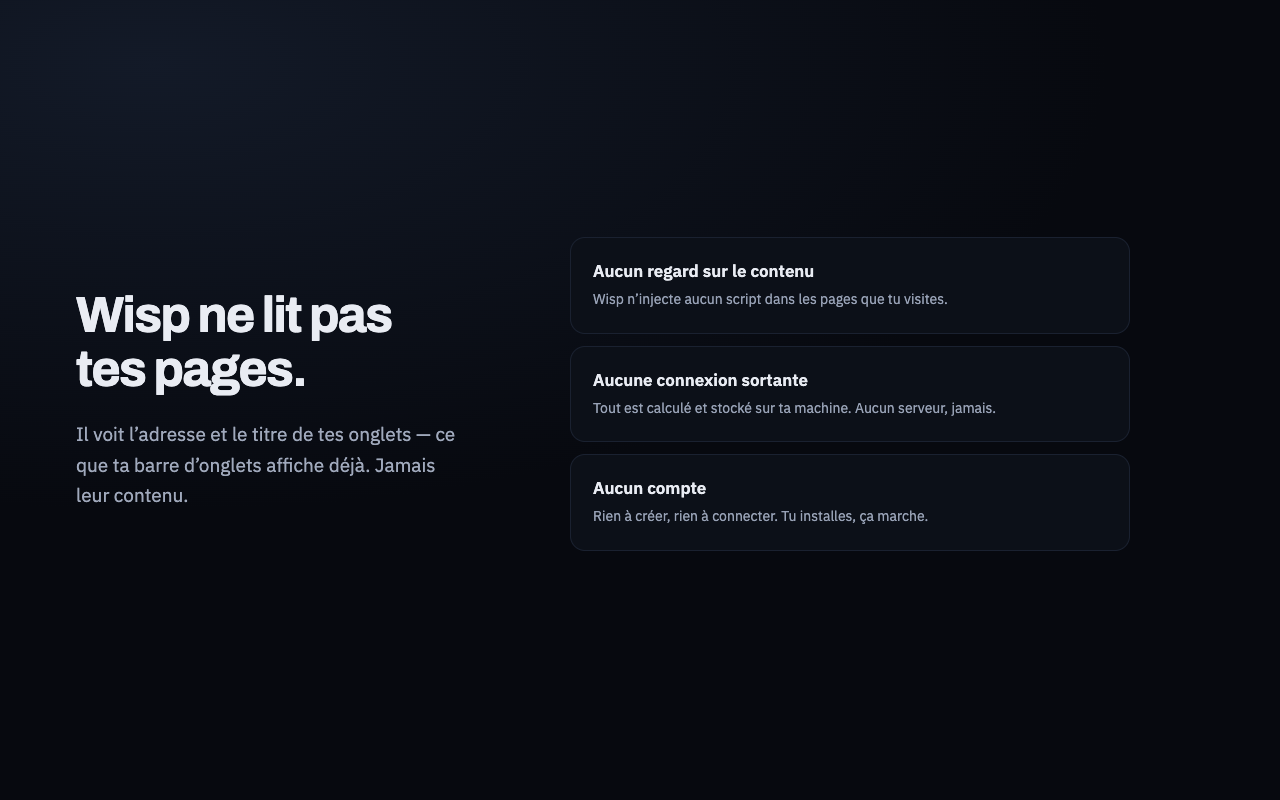
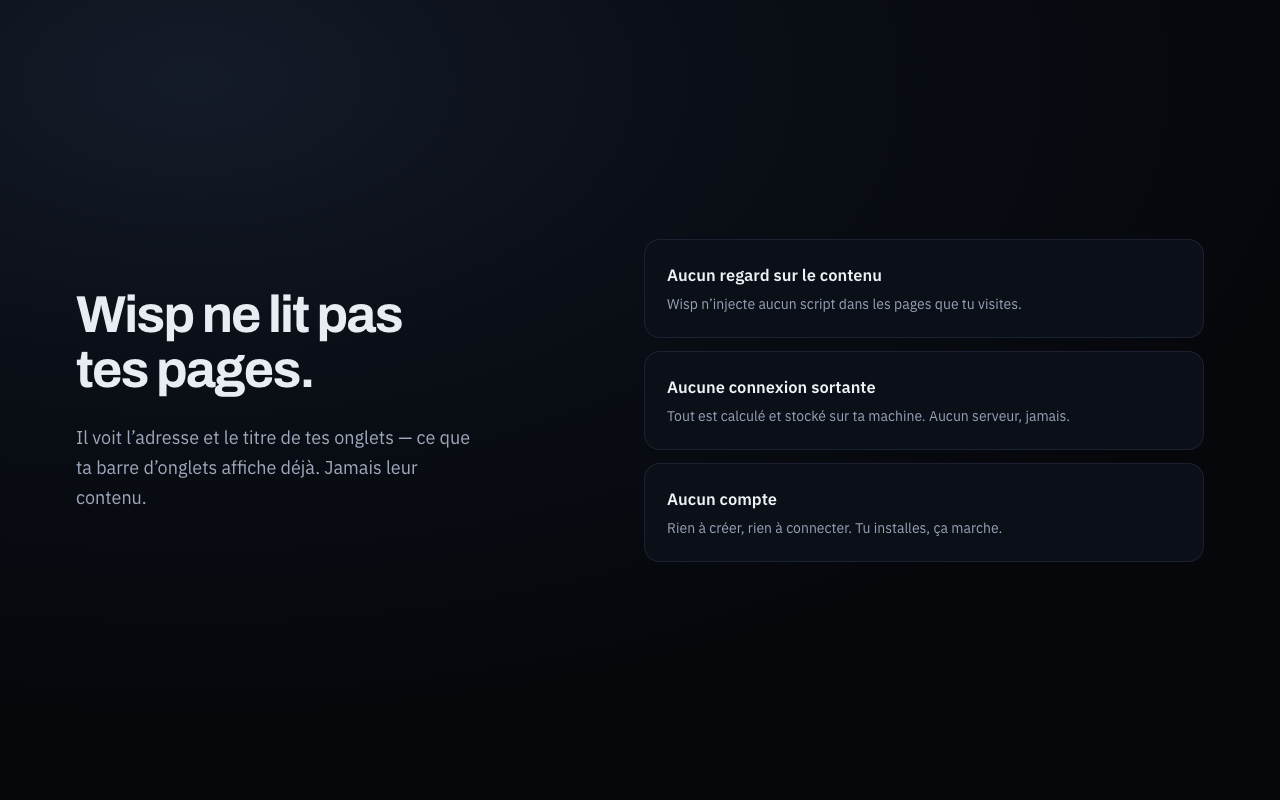
Visuels du Store en anglais, et français remis à jour
Les captures françaises montraient encore l'ancien bouton « Ranger les
onglets ouverts » et une suggestion « Achats » que Wisp ne fait plus. Les
deux jeux (fr dans store/, en dans store/en/) sortent désormais d'un même
modèle, store/visuels/modele.html, qui reçoit le CSS réel du popup (isolé
dans un Shadow DOM) et les messages réels de _locales : le texte du popup
n'est jamais recopié, les captures ne peuvent plus contredire le produit.
store/visuels/generer.cjs les photographie et échoue si une clé manque.

diff --git a/store/visuels/modele.html b/store/visuels/modele.html
@@ -1,0 +1,246 @@
+<!doctype html>
+<!--
+  Modèle des visuels du Chrome Web Store (captures 1280×800, tuile, bannière).
+  Ne s'ouvre pas tel quel : store/visuels/generer.cjs y injecte le CSS réel du
+  popup et les messages réels de _locales, puis photographie chaque visuel.
+  Les textes du popup ne sont donc jamais recopiés : ils viennent de
+  l'extension, et les captures ne peuvent pas diverger du produit.
+  Seuls les titres marketing (à gauche) vivent ici, dans ACCROCHES.
+-->
+<html>
+<head>
+<meta charset="utf-8">
+<link rel="stylesheet" href="https://fonts.googleapis.com/css2?family=Archivo:wght@700&family=IBM+Plex+Sans:wght@400;500;600&display=swap">
+<style>
+  html, body { margin: 0; }
+  body {
+    background: radial-gradient(ellipse 90% 80% at 15% 10%, #141b29 0%, #0a0e16 45%, #05070b 100%);
+    color: #e9ecf3; font-family: 'IBM Plex Sans', system-ui, sans-serif;
+    -webkit-font-smoothing: antialiased; overflow: hidden;
+  }
+  .cadre { position: relative; display: flex; align-items: center; justify-content: space-between; box-sizing: border-box; }
+  .texte { flex: none; }
+  h1 {
+    font-family: 'Archivo', 'Helvetica Neue', Arial, sans-serif; font-weight: 700;
+    font-size: 52px; line-height: 1.06; letter-spacing: -0.035em; margin: 0 0 26px;
+  }
+  h1 .accent { color: #36DDF3; }
+  .sous { font-size: 18px; line-height: 1.68; color: #a0a9bc; margin: 0; }
+  .marque { display: flex; align-items: center; gap: 14px; margin-bottom: 26px;
+    font-family: 'Archivo', sans-serif; font-weight: 700; letter-spacing: -0.035em; }
+  .logo { display: flex; flex-direction: column; gap: 5px; }
+  .logo i { display: block; border-radius: 4px; }
+
+  /* Avant / après : la barre d'onglets en vrac, puis rangée */
+  .etiquette { font-size: 12px; font-weight: 600; letter-spacing: .1em; text-transform: uppercase; margin: 0 0 10px; }
+  .bande { background: #0c1018; border: 1px solid #1a2130; border-radius: 12px; padding: 13px 14px;
+    display: flex; flex-wrap: wrap; gap: 6px; }
+  .onglet { display: flex; align-items: center; gap: 9px; width: 132px; height: 36px; box-sizing: border-box;
+    padding: 0 11px; border-radius: 7px; background: #151b27; border: 1px solid #1f2736;
+    font-size: 13px; color: #c2cad9; white-space: nowrap; overflow: hidden; }
+  .onglet span:last-child { overflow: hidden; text-overflow: ellipsis; }
+  .fav { width: 16px; height: 16px; border-radius: 4px; flex: none; display: inline-flex; align-items: center;
+    justify-content: center; font-size: 9.5px; font-weight: 700; color: #fff; }
+  .pastille { height: 36px; display: inline-flex; align-items: center; padding: 0 15px; border-radius: 8px;
+    font-size: 13.5px; font-weight: 600; }
+
+  /* Cartes de la vie privée */
+  .cartes { display: flex; flex-direction: column; gap: 13px; width: 560px; }
+  .carte { background: #0b0f17; border: 1px solid #1a2130; border-radius: 16px; padding: 24px 22px; }
+  .carte b { display: block; font-size: 16.5px; margin-bottom: 7px; color: #eef1f6; }
+  .carte span { font-size: 14px; color: #98a2b6; }
+
+  /* L'hôte du popup : le CSS réel vit dans son Shadow DOM */
+  .popup-hote { flex: none; width: 360px; border-radius: 18px; overflow: hidden; font-family: sans-serif;
+    border: 1px solid rgba(255,255,255,0.08);
+    box-shadow: 0 40px 90px rgba(0,0,0,0.6), 0 0 0 1px rgba(0,0,0,0.3); }
+</style>
+</head>
+<body>
+<div id="scene"></div>
+<script>
+/*DONNEES*/
+
+// ---- Messages de l'extension, résolus comme Chrome ($P1$ -> 1re valeur) ----
+function t(cle, valeurs = []) {
+  const e = MESSAGES[cle];
+  if (!e) return `⟦${cle}⟧`; // une clé manquante saute aux yeux sur l'image
+  return e.message.replace(/\$P(\d)\$/g, (_, i) => valeurs[i - 1] ?? "").replace(/\$\$/g, "$");
+}
+const onglets = (n) => t(n === 1 ? "tabsCountOne" : "tabsCountMany", [String(n)]);
+const dateCourte = (jour) => new Date(2026, 7, jour).toLocaleDateString(LANGUE, { day: "numeric", month: "short" });
+const esc = (s) => String(s).replace(/&/g, "&amp;").replace(/</g, "&lt;");
+
+// ---- Accroches : le seul texte propre aux visuels ----
+const ACCROCHES = {
+  fr: {
+    avant: "Avant", apres: "Après",
+    s1: { t: "Il regroupe tes onglets <span class=accent>tout seul</span>.",
+          s: "Par site, ou par recherche : deux requêtes sur le même sujet forment un groupe nommé avec tes propres mots." },
+    s2: { t: "Endors, réveille ou archive un groupe <span class=accent>entier</span>.",
+          s: "Chaque groupe affiche son état et le temps qui lui reste avant de s’endormir. Tout se pilote d’un clic." },
+    s3: { t: "Il apprend tes sujets, <span class=accent>sans rien envoyer</span>.",
+          s: "Deux sites reviennent toujours ensemble ? Wisp propose de les lier. Tu nommes, tu valides, ou tu refuses." },
+    s4: { t: "Range un groupe entier. Retrouve-le <span class=accent>en un clic</span>.",
+          s: "Archiver ferme tout le groupe sans rien perdre : il revient avec son nom et sa couleur, quand tu veux." },
+    s5: { t: "Wisp ne lit pas tes pages.",
+          s: "Il voit l’adresse et le titre de tes onglets — ce que ta barre d’onglets affiche déjà. Jamais leur contenu.",
+          c: [["Aucun regard sur le contenu", "Wisp n’injecte aucun script dans les pages que tu visites."],
+              ["Aucune connexion sortante", "Tout est calculé et stocké sur ta machine. Aucun serveur, jamais."],
+              ["Aucun compte", "Rien à créer, rien à connecter. Tu installes, ça marche."]] },
+    tuile: { t: "Trop d’onglets ouverts.", a: "Aucun perdu.", s: "Il les regroupe par sujet, tout seul." },
+    banniere: { s: "Il les regroupe par sujet tout seul, prévient avant d’endormir, et ne contacte aucun serveur." },
+    donnees: {
+      avant: [["F", "#A259FF", "Figma — Wisp"], ["D", "#EA4C89", "Dribbble"], ["C", "#D97757", "Claude"],
+              ["", "#2A3546", "Lisbonne en 3 jours"], ["V", "#09B1BA", "Vinted"], ["a", "#FF9900", "Amazon"]],
+      groupes: ["Design", "Lisbonne", "Veille produit", "Achats"],
+      suggestion: ["Cardmarket", "Pokecardex"], sujet: "Pokémon TCG",
+      archives: [["Lisbonne", 4, 29, "#81c995"], ["Impôts 2026", 3, 27, "#fcad70"],
+                 ["Vélo électrique", 5, 25, "#78d9ec"], ["Recettes", 2, 23, "#ff8bcb"]]
+    }
+  },
+  en: {
+    avant: "Before", apres: "After",
+    s1: { t: "It groups your tabs <span class=accent>on its own</span>.",
+          s: "By site, or by search: two queries on the same topic form one group, named with your own words." },
+    s2: { t: "Sleep, wake or archive a <span class=accent>whole group</span>.",
+          s: "Every group shows its state and how long it has before it falls asleep. One click does the rest." },
+    s3: { t: "It learns your topics, <span class=accent>without sending anything</span>.",
+          s: "Two sites always show up together? Wisp offers to link them. You name it, you accept, or you decline." },
+    s4: { t: "Put a whole group away. Get it back <span class=accent>in one click</span>.",
+          s: "Archiving closes the whole group without losing a thing: it comes back with its name and colour, whenever you want." },
+    s5: { t: "Wisp doesn’t read your pages.",
+          s: "It sees the address and title of your tabs — what your tab strip already shows. Never their content.",
+          c: [["No look inside", "Wisp injects no script into the pages you visit."],
+              ["No outbound connection", "Everything is computed and stored on your machine. No server, ever."],
+              ["No account", "Nothing to create, nothing to connect. Install it, it works."]] },
+    tuile: { t: "Too many tabs open.", a: "None lost.", s: "It groups them by topic, on its own." },
+    banniere: { s: "It groups them by topic on its own, warns you before sleep, and contacts no server." },
+    donnees: {
+      avant: [["F", "#A259FF", "Figma — Wisp"], ["D", "#EA4C89", "Dribbble"], ["C", "#D97757", "Claude"],
+              ["", "#2A3546", "Lisbon in 3 days"], ["E", "#F1641E", "Etsy"], ["a", "#FF9900", "Amazon"]],
+      groupes: ["Design", "Lisbon", "Product research", "Shopping"],
+      suggestion: ["Cardmarket", "Pokecardex"], sujet: "Pokémon TCG",
+      archives: [["Lisbon", 4, 29, "#81c995"], ["Taxes 2026", 3, 27, "#fcad70"],
+                 ["E-bike", 5, 25, "#78d9ec"], ["Recipes", 2, 23, "#ff8bcb"]]
+    }
+  }
+};
+const A = ACCROCHES[LANGUE];
+const D = A.donnees;
+// Les pastilles « après » : les vrais titres que l'extension donne à ces groupes.
+const APRES = [["Design", "#EF98F4", "#2B0B2E"], [t("category_ai"), "#36DDF3", "#032630"],
+               [D.groupes[1], "#10F756", "#032F13"], [t("category_shopping"), "#FCAD70", "#33210E"]];
+
+// ---- Le popup, construit avec les classes et le CSS réels de popup.html ----
+function groupe(nom, couleur, etat, classe, action) {
+  return `<div class="group"><div class="dot" style="background:${couleur}"></div>
+    <div class="group-body"><div class="group-name">${esc(nom)}</div>
+    <div class="group-state ${classe}">${esc(etat)}</div></div>
+    <div class="actions"><button>${t(action)}</button><button class="ghost">${t("actionArchive")}</button></div></div>`;
+}
+function popup({ endormis = 0, archives = 0, vrac = 0, focus = false, suggestion = "", corps = "" }) {
+  const tri = vrac === 0 ? t("sortButtonNone")
+    : t(vrac === 1 ? "sortButtonOne" : "sortButtonMany", [String(vrac)]);
+  return `<div class="container">
+    <div class="header"><img src="${LOGO}"><h2>Wisp</h2></div>
+    <div class="stats-row">
+      <div class="stats-card"><span>${endormis}</span><label>${t("statSleepingTabs")}</label></div>
+      <div class="stats-card"><span>${archives}</span><label>${t("statArchivedGroups")}</label></div>
+    </div>
+    ${suggestion}
+    <button id="sweepBtn" ${vrac === 0 ? "disabled" : ""}>${tri}</button>
+    ${focus ? `<button id="focusBtn">${t("focusButton")}</button>` : ""}
+    ${corps}
+    <details class="settings"><summary>${t("settingsTitle")}</summary></details>
+    <div class="footer">${t("footer")}</div>
+  </div>`;
+}
+const regle = `<p class="section-title">${t("groupsTitle")}</p>
+  <p class="section-note">${t("ruleText", [t("delayHours", ["1"]), t("delayMinutes", ["30"])])}</p>`;
+
+function monterPopup(parent, options) {
+  const hote = document.createElement("div");
+  hote.className = "popup-hote";
+  hote.attachShadow({ mode: "open" }).innerHTML = `<style>${POPUP_CSS}</style>${popup(options)}`;
+  parent.append(hote);
+}
+
+// ---- Les scènes ----
+const logo = (h) => `<div class="logo">${["#EF98F4", "#36DDF3", "#10F756"]
+  .map(c => `<i style="width:${h * 1.9}px;height:${h * .5}px;background:${c}"></i>`).join("")}</div>`;
+const texte = (s, largeur) => `<div class="texte" style="width:${largeur}px"><h1>${s.t}</h1><p class="sous">${s.s}</p></div>`;
+// Deux rangées de trois onglets : six onglets en vrac se lisent d'un coup d'œil.
+const avantApres = (largeurOnglet = 132) => `
+  <div style="width:${largeurOnglet * 3 + 42}px">
+    <p class="etiquette" style="color:#8b95a9">${A.avant}</p>
+    <div class="bande" style="margin-bottom:26px">${D.avant.map(([l, c, n]) =>
+      `<div class="onglet" style="width:${largeurOnglet}px"><span class="fav" style="background:${c}">${l || "●"}</span><span>${esc(n)}</span></div>`).join("")}</div>
+    <p class="etiquette" style="color:#10F756">${A.apres}</p>
+    <div class="bande">${APRES.map(([n, fond, encre]) =>
+      `<span class="pastille" style="background:${fond};color:${encre}">${esc(n)}</span>`).join("")}</div>
+  </div>`;
+
+const SCENES = {
+  "1-regroupe": [1280, 800, (s) => { s.innerHTML = texte(A.s1, 420) + avantApres(170); }],
+  "2-groupes": [1280, 800, (s) => {
+    s.innerHTML = texte(A.s2, 560);
+    monterPopup(s, { endormis: 5, vrac: 3, focus: true, corps: `<div class="groups">${regle}
+      ${groupe(D.groupes[0], "#c58af9", t("stateActive", [onglets(3)]), "active", "actionSleep")}
+      ${groupe(D.groupes[1], "#81c995", "⏳ " + t("stateSleepsIn", [t("delayMinutes", ["14"])]), "waiting", "actionSleep")}
+      ${groupe(D.groupes[2], "#78d9ec", t("stateSleeping", [onglets(5)]), "sleeping", "actionWake")}
+      ${groupe(D.groupes[3], "#fcad70", t("stateSleepsIn", [t("delayMinutes", ["48"])]), "", "actionSleep")}</div>` });
+  }],
+  "3-suggestion": [1280, 800, (s) => {
+    s.innerHTML = texte(A.s3, 500);
+    const [a, b] = D.suggestion;
+    monterPopup(s, { vrac: 0, suggestion: `<div class="suggestion"><p>💡 <strong>${t("listLast", [a, b])}</strong> ${t("suggestionNamed")}</p>
+      <input type="text" value="${esc(D.sujet)}"><div class="suggestion-actions"><button>${t("suggestionLink")}</button>
+      <button class="ghost">${t("suggestionDismiss")}</button></div></div>`,
+      corps: `<div class="groups">${regle}${groupe(D.groupes[0], "#c58af9", t("stateActive", [onglets(3)]), "active", "actionSleep")}</div>` });
+  }],
+  "4-archives": [1280, 800, (s) => {
+    s.innerHTML = texte(A.s4, 560);
+    monterPopup(s, { archives: 4, vrac: 0, corps: `<div class="groups">${regle}
+      ${groupe(D.groupes[0], "#c58af9", t("stateActive", [onglets(2)]), "active", "actionSleep")}</div>
+      <div class="groups"><p class="section-title">${t("archivesTitle")}</p><p class="section-note">${t("archivesNote")}</p>
+      <input type="text" id="archiveSearch" placeholder="${esc(t("archiveSearchPlaceholder"))}">
+      ${D.archives.map(([n, k, j, c]) => `<div class="archive"><div class="dot" style="background:${c}"></div>
+        <div class="group-body"><div class="group-name">${esc(n)}</div><div class="group-state">${esc(t("archiveMeta", [onglets(k), dateCourte(j)]))}</div></div>
+        <div class="actions"><button>${t("actionRestore")}</button><button class="ghost">${t("actionForget")}</button></div></div>`).join("")}</div>` });
+  }],
+  "5-vie-privee": [1280, 800, (s) => {
+    s.innerHTML = texte(A.s5, 400) + `<div class="cartes">${A.s5.c.map(([b, p]) => `<div class="carte"><b>${b}</b><span>${p}</span></div>`).join("")}</div>`;
+  }],
+  "tuile-440x280": [440, 280, (s) => {
+    s.style.justifyContent = "flex-start";
+    s.innerHTML = `<div><div class="marque" style="font-size:44px;margin-bottom:18px">${logo(16)}Wisp</div>
+      <h1 style="font-size:23px;margin:0 0 14px;letter-spacing:-0.02em">${A.tuile.t}<br><span class="accent">${A.tuile.a}</span></h1>
+      <p class="sous" style="font-size:13px">${A.tuile.s}</p></div>`;
+  }],
+  "banniere-1400x560": [1400, 560, (s) => {
+    s.innerHTML = `<div class="texte" style="width:470px"><div class="marque" style="font-size:56px">${logo(19)}Wisp</div>
+      <h1 style="font-size:44px">${A.tuile.t}<br><span class="accent">${A.tuile.a}</span></h1>
+      <p class="sous" style="font-size:17px">${A.banniere.s}</p></div>` + avantApres(150);
+  }]
+};
+
+// Les marges suivent celles des visuels d'origine : texte à 76 px du bord.
+function monter(nom) {
+  const [l, h, dessiner] = SCENES[nom];
+  const s = document.getElementById("scene");
+  s.className = "cadre";
+  Object.assign(s.style, { width: l + "px", height: h + "px",
+    padding: nom.startsWith("tuile") ? "0 34px" : nom.startsWith("banniere") ? "0 66px" : "0 76px" });
+  dessiner(s);
+  document.documentElement.lang = LANGUE;
+  return document.fonts.ready.then(() => [l, h]);
+}
+// La scène se choisit par l'adresse (modele.html#2-groupes). Une fois les
+// polices chargées, <body data-pret> prévient le générateur qu'il peut
+// photographier : il n'a pas à connaître l'intérieur de la page.
+const demandee = decodeURIComponent(location.hash.slice(1));
+if (SCENES[demandee]) monter(demandee).then(() => { document.body.dataset.pret = "1"; });
+</script>
+</body>
+</html>

diff --git a/store/FICHE.md b/store/FICHE.md
@@ -87,7 +87,8 @@ Le manifeste est lu automatiquement : nom, version et icônes se remplissent seu
 - **Description courte** et **Description détaillée** : les textes plus haut
 - **Category** : Productivity
 - **Language** : Français
-- **Screenshots** : les cinq fichiers de `store/`, dans l'ordre 1 à 5
+- **Screenshots** : les cinq fichiers de `store/`, dans l'ordre 1 à 5 — en **français** ; pour la fiche **anglaise**, ceux de `store/en/`
+- **Régénérer tous les visuels** (captures, tuile, bannière, fr + en) : `store/visuels/generer.cjs`. Le modèle lit le CSS réel du popup et les messages réels de `_locales` : à relancer après tout changement de texte ou de style du popup, pour que les captures ne mentent pas
 - **Small promo tile** : `tuile-440x280.png`
 - **Support email** : ton adresse
 - **Website** : ton adresse Netlify
